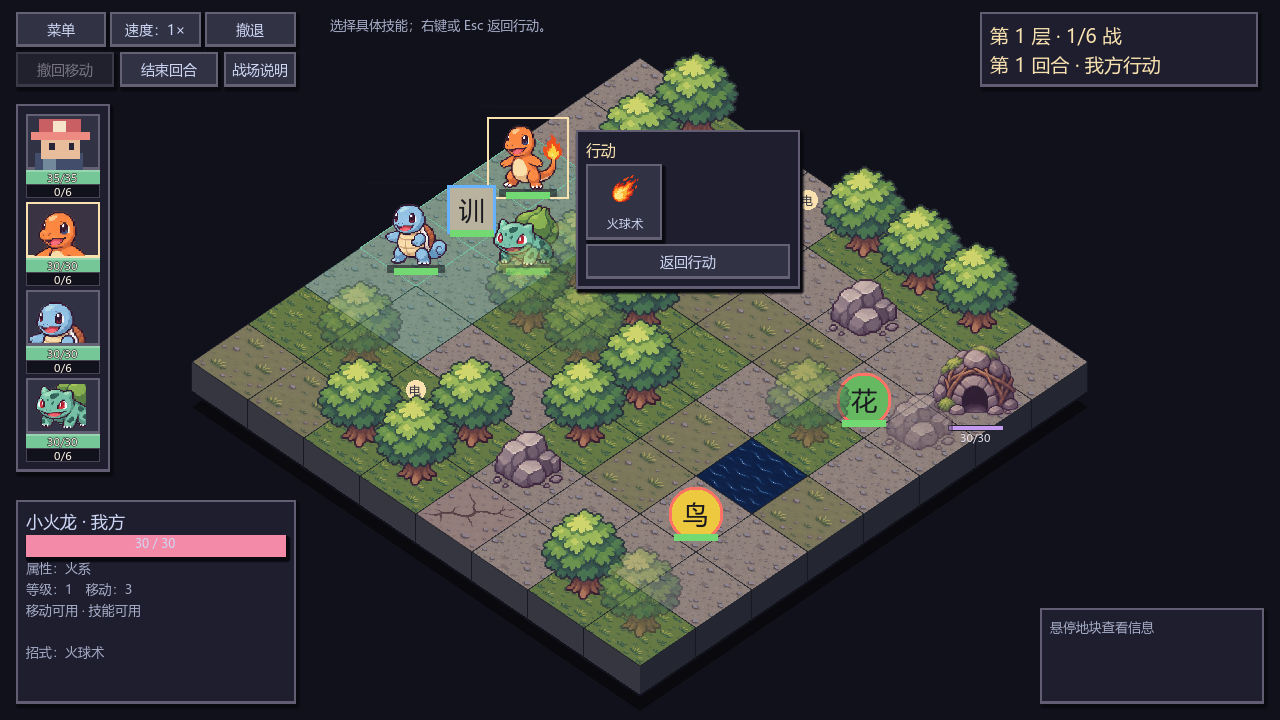
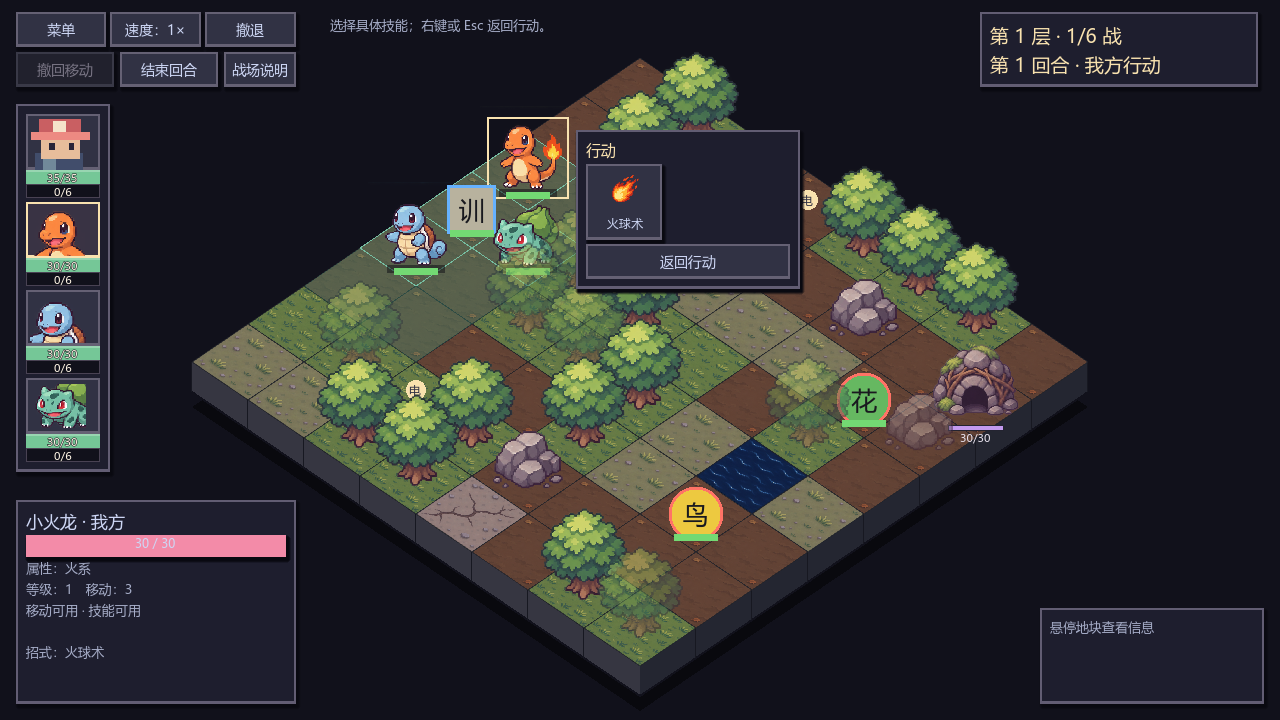
art: theme normal ground by region and distinguish molten lava

diff --git a/sample/ISOMETRIC.md b/sample/ISOMETRIC.md
@@ -95,3 +95,13 @@
 - terrain-catalogue.png现为14种实际地形与3种巢穴状态，调用与实机相同的资源与绘制函数。旧simple_terrain.gd/terrain_catalogue.gd仅保留为历史方案，不在战斗或新对照图使用。
 - 本轮验证：专项408检查点、巢穴分层生命与分伤68检查点通过；完整回归101用例、13268检查点通过。对照图与战斗图无脚本错误。
 - 补充图集使用内置image_gen、参考原图集生成；规格与资源说明在assets/pixel_sample/terrain-nest-prompt.md。素材未经人工逐像素精修，不声称已经完成动画与多方向角色资源。
+
+## 地区普通地面分化（2026-11-11）
+
+- 普通地面随四种地区显示：密林为泥土、深潭为沙面、岩窟保留碎石、火谷复用原暗岩细熔缝材质。
+- 原先的岩浆材质转作火谷普通地面；真正的TerrainDB.LAVA换为橙红液态熔流，在所有地区一致，避免误认为可站立。
+- 岩障底部使用地区普通地面以贴合场景，其余特殊地形维持统一辨认特征。没有修改TerrainDB、地形编号或移动/受伤规则。
+- BoardView新增显示用biome属性；预览从map.theme_id取得，战斗/营地从所属屏幕的run.current_theme取得。
+- 新图集biome-ground-v1.png使用内置image_gen生成，规格见assets/pixel_sample/biome-ground-prompt.md。
+- 四地区对比图：sample/biome-catalogue.png。主战斗图当前为密林。
+- 验证：专项427项通过，包含四地区真实预览/战斗入口、平地材质各异与危险岩浆一致；界面流程150项通过。对比图和战斗图无脚本错误。

diff --git a/assets/pixel_sample/biome-ground-prompt.md b/assets/pixel_sample/biome-ground-prompt.md
@@ -1,0 +1,12 @@
+# 地区普通地面与液态岩浆
+
+使用内置image_gen，参考原atlas-v1.png生成biome-ground-v1.png。原图保留，采用2×2 AtlasTexture分区。
+
+提示规格：四格顶视正方形材质，无缝隙、文字、边框或等角体积；匹配原图的低饱和像素簇、左上光源，缩小到112×76菱形时仍清楚。纹理克制，禁止密集碎点与繁复纹样。
+
+- 左上：森林普通泥土，深暖棕色压实土壤，少量浅土纹、边缘一两片落叶，大面积中心安静；不要碎石、覆盖整格的树根或草毯。
+- 右上：湖岸普通沙地，温暖金米色，角落少量低起伏沙纹，不放贝壳、石子、水面或蓝色反光。
+- 左下：真正致命的熔岩，主要为持续流动的橙红液体与宽阔黄橙热流，只留少量暗色结壳；明确区别于冷岩石中的细熔缝。
+- 右下：备用湿泥土变体，深褐色、少量大块湿润区域，无石子。
+
+火谷普通地面复用terrain-nest-v1.png的旧熔岩格（暗色岩面与少量熔缝）；岩窟普通地面保留atlas-v1.png的碎石格。游戏的平地/熔岩地形编号和规则没有改变。
